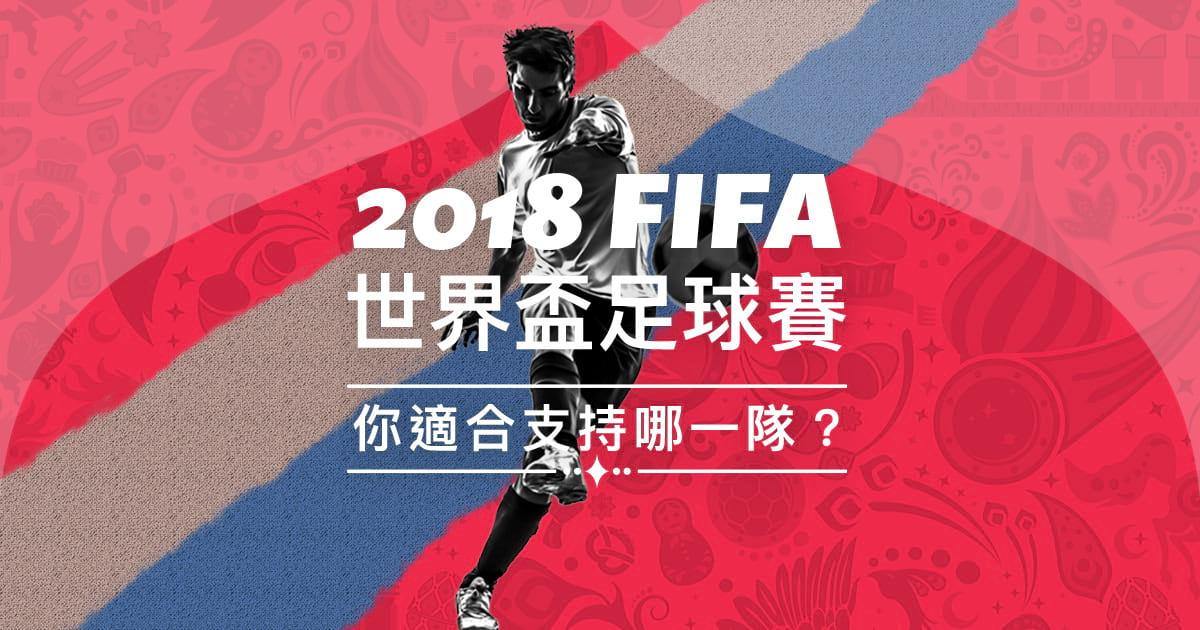
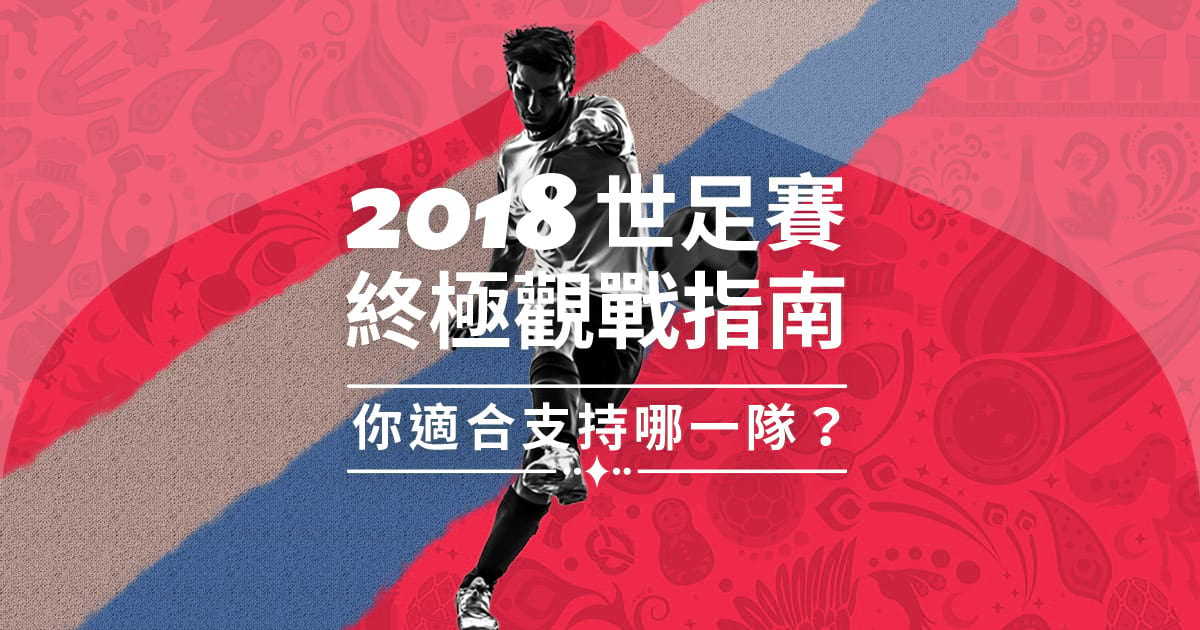
fifa2018 update main title

Changed region(s): [[0.2775, 0.2714, 0.7092, 0.573], [0.2775, 0.6333, 0.7092, 0.7238]]

diff --git a/fifa2018/quiz.html b/fifa2018/quiz.html
@@ -5,7 +5,7 @@
     <meta charset="UTF-8">
     <meta name="viewport" content="width=device-width, initial-scale=1.0">
     <meta http-equiv="X-UA-Compatible" content="ie=edge">
-    <title>2018 FIFA 世界盃足球賽，你適合支持哪一隊？</title>    
+    <title>2018 世足賽，終極觀戰指南</title>    
     <link rel="stylesheet" href="css/common.css" />
     <link rel="stylesheet" href="css/swiper.css" />
     <link rel="stylesheet" href="css/perfect-scrollbar.css" />
@@ -16,7 +16,7 @@
     <!-- Typekit -->
 
     <!-- OG -->
-    <meta name="description" content="2018 FIFA 世界盃足球賽，你適合支持哪一隊？">
+    <meta name="description" content="2018 世足賽，終極觀戰指南">
     <meta property="article:author" content="https://www.facebook.com/mirrormediamg/">
     <meta property="article:publisher" content="https://www.facebook.com/mirrormediamg/">
     <meta property="fb:app_id" content="175313259598308">
@@ -24,7 +24,7 @@
     <meta property="og:site_name" content="鏡週刊 Mirror Media" />
     <meta property="og:locale" content="zh_TW" />
     <meta property="og:type" content="article" />
-    <meta property="og:title" content="2018 FIFA 世界盃足球賽，你適合支持哪一隊？" />
+    <meta property="og:title" content="2018 世足賽，終極觀戰指南" />
     <meta property="og:description" content="四年一度的世界盃足球賽又要來了，這次有首次參加的冰島與巴拿馬，也有爆冷出局的義大利。不單只有義大利，荷蘭跟美國也讓不少人跌破眼鏡。當然，世界盃常客巴西、德國、法國一直以來也都擁有大量球迷。就在即將點燃戰火的同時，你還不知道該為那支球隊加油？那一定要來這裡讓我們為你配對，找到跟你最速配的球隊，讓你成為忠實球迷！" />
     <meta property="og:url" content="https://www.mirrormedia.mg/projects/fifa2018/"/>
     <meta property="og:image" content="https://www.mirrormedia.mg/projects/fifa2018/images/og/main.jpg">

diff --git a/fifa2018/quiz/ARG/index.html b/fifa2018/quiz/ARG/index.html
@@ -5,7 +5,7 @@
     <meta charset="UTF-8">
     <meta name="viewport" content="width=device-width, initial-scale=1.0">
     <meta http-equiv="X-UA-Compatible" content="ie=edge">
-    <title>2018 FIFA 世界盃足球賽，你適合支持哪一隊？</title>
+    <title>2018 世足賽，終極觀戰指南</title>
     <link rel="stylesheet" href="../../css/common.css" />
     <!-- Typekit -->
     <script src="https://use.typekit.net/fuf0mys.js"></script>
@@ -13,7 +13,7 @@
     <!-- Typekit -->
 
     <!-- OG -->
-    <meta name="description" content="2018 FIFA 世界盃足球賽，你適合支持哪一隊？">
+    <meta name="description" content="2018 世足賽，終極觀戰指南">
     <meta property="article:author" content="https://www.facebook.com/mirrormediamg/">
     <meta property="article:publisher" content="https://www.facebook.com/mirrormediamg/">
     <meta property="fb:app_id" content="175313259598308">
@@ -40,8 +40,8 @@
 
                 <section>
                     <div class="main-title">
-                        <h1 class="eng">2018 FIFA</h1>
-                        <h1 class="cht">世界盃足球賽</h1>                
+                        <h1 class="eng">2018 <span class="cht">世足賽</span></h1>
+                        <h1 class="cht">終極觀戰指南</h1>                
                         <h2 class="deco">
                             <div class="deco--text">你適合支持哪一隊？</div>
                             <div class="deco--line">

diff --git a/fifa2018/quiz/AUS/index.html b/fifa2018/quiz/AUS/index.html
@@ -5,7 +5,7 @@
     <meta charset="UTF-8">
     <meta name="viewport" content="width=device-width, initial-scale=1.0">
     <meta http-equiv="X-UA-Compatible" content="ie=edge">
-    <title>2018 FIFA 世界盃足球賽，你適合支持哪一隊？</title>
+    <title>2018 世足賽，終極觀戰指南</title>
     <link rel="stylesheet" href="../../css/common.css" />
     <!-- Typekit -->
     <script src="https://use.typekit.net/fuf0mys.js"></script>
@@ -13,7 +13,7 @@
     <!-- Typekit -->
 
     <!-- OG -->
-    <meta name="description" content="2018 FIFA 世界盃足球賽，你適合支持哪一隊？">
+    <meta name="description" content="2018 世足賽，終極觀戰指南">
     <meta property="article:author" content="https://www.facebook.com/mirrormediamg/">
     <meta property="article:publisher" content="https://www.facebook.com/mirrormediamg/">
     <meta property="fb:app_id" content="175313259598308">
@@ -40,8 +40,8 @@
 
                 <section>
                     <div class="main-title">
-                        <h1 class="eng">2018 FIFA</h1>
-                        <h1 class="cht">世界盃足球賽</h1>                
+                        <h1 class="eng">2018 <span class="cht">世足賽</span></h1>
+                        <h1 class="cht">終極觀戰指南</h1>                
                         <h2 class="deco">
                             <div class="deco--text">你適合支持哪一隊？</div>
                             <div class="deco--line">

diff --git a/fifa2018/quiz/BEL/index.html b/fifa2018/quiz/BEL/index.html
@@ -5,7 +5,7 @@
     <meta charset="UTF-8">
     <meta name="viewport" content="width=device-width, initial-scale=1.0">
     <meta http-equiv="X-UA-Compatible" content="ie=edge">
-    <title>2018 FIFA 世界盃足球賽，你適合支持哪一隊？</title>
+    <title>2018 世足賽，終極觀戰指南</title>
     <link rel="stylesheet" href="../../css/common.css" />
     <!-- Typekit -->
     <script src="https://use.typekit.net/fuf0mys.js"></script>
@@ -13,7 +13,7 @@
     <!-- Typekit -->
 
     <!-- OG -->
-    <meta name="description" content="2018 FIFA 世界盃足球賽，你適合支持哪一隊？">
+    <meta name="description" content="2018 世足賽，終極觀戰指南">
     <meta property="article:author" content="https://www.facebook.com/mirrormediamg/">
     <meta property="article:publisher" content="https://www.facebook.com/mirrormediamg/">
     <meta property="fb:app_id" content="175313259598308">
@@ -40,8 +40,8 @@
 
                 <section>
                     <div class="main-title">
-                        <h1 class="eng">2018 FIFA</h1>
-                        <h1 class="cht">世界盃足球賽</h1>                
+                        <h1 class="eng">2018 <span class="cht">世足賽</span></h1>
+                        <h1 class="cht">終極觀戰指南</h1>                
                         <h2 class="deco">
                             <div class="deco--text">你適合支持哪一隊？</div>
                             <div class="deco--line">

diff --git a/fifa2018/quiz/BRA/index.html b/fifa2018/quiz/BRA/index.html
@@ -5,7 +5,7 @@
     <meta charset="UTF-8">
     <meta name="viewport" content="width=device-width, initial-scale=1.0">
     <meta http-equiv="X-UA-Compatible" content="ie=edge">
-    <title>2018 FIFA 世界盃足球賽，你適合支持哪一隊？</title>
+    <title>2018 世足賽，終極觀戰指南</title>
     <link rel="stylesheet" href="../../css/common.css" />
     <!-- Typekit -->
     <script src="https://use.typekit.net/fuf0mys.js"></script>
@@ -13,7 +13,7 @@
     <!-- Typekit -->
 
     <!-- OG -->
-    <meta name="description" content="2018 FIFA 世界盃足球賽，你適合支持哪一隊？">
+    <meta name="description" content="2018 世足賽，終極觀戰指南">
     <meta property="article:author" content="https://www.facebook.com/mirrormediamg/">
     <meta property="article:publisher" content="https://www.facebook.com/mirrormediamg/">
     <meta property="fb:app_id" content="175313259598308">
@@ -40,8 +40,8 @@
 
                 <section>
                     <div class="main-title">
-                        <h1 class="eng">2018 FIFA</h1>
-                        <h1 class="cht">世界盃足球賽</h1>                
+                        <h1 class="eng">2018 <span class="cht">世足賽</span></h1>
+                        <h1 class="cht">終極觀戰指南</h1>                
                         <h2 class="deco">
                             <div class="deco--text">你適合支持哪一隊？</div>
                             <div class="deco--line">

diff --git a/fifa2018/quiz/COL/index.html b/fifa2018/quiz/COL/index.html
@@ -5,7 +5,7 @@
     <meta charset="UTF-8">
     <meta name="viewport" content="width=device-width, initial-scale=1.0">
     <meta http-equiv="X-UA-Compatible" content="ie=edge">
-    <title>2018 FIFA 世界盃足球賽，你適合支持哪一隊？</title>
+    <title>2018 世足賽，終極觀戰指南</title>
     <link rel="stylesheet" href="../../css/common.css" />
     <!-- Typekit -->
     <script src="https://use.typekit.net/fuf0mys.js"></script>
@@ -13,7 +13,7 @@
     <!-- Typekit -->
 
     <!-- OG -->
-    <meta name="description" content="2018 FIFA 世界盃足球賽，你適合支持哪一隊？">
+    <meta name="description" content="2018 世足賽，終極觀戰指南">
     <meta property="article:author" content="https://www.facebook.com/mirrormediamg/">
     <meta property="article:publisher" content="https://www.facebook.com/mirrormediamg/">
     <meta property="fb:app_id" content="175313259598308">
@@ -40,8 +40,8 @@
 
                 <section>
                     <div class="main-title">
-                        <h1 class="eng">2018 FIFA</h1>
-                        <h1 class="cht">世界盃足球賽</h1>                
+                        <h1 class="eng">2018 <span class="cht">世足賽</span></h1>
+                        <h1 class="cht">終極觀戰指南</h1>                
                         <h2 class="deco">
                             <div class="deco--text">你適合支持哪一隊？</div>
                             <div class="deco--line">

diff --git a/fifa2018/quiz/CRC/index.html b/fifa2018/quiz/CRC/index.html
@@ -5,7 +5,7 @@
     <meta charset="UTF-8">
     <meta name="viewport" content="width=device-width, initial-scale=1.0">
     <meta http-equiv="X-UA-Compatible" content="ie=edge">
-    <title>2018 FIFA 世界盃足球賽，你適合支持哪一隊？</title>
+    <title>2018 世足賽，終極觀戰指南</title>
     <link rel="stylesheet" href="../../css/common.css" />
     <!-- Typekit -->
     <script src="https://use.typekit.net/fuf0mys.js"></script>
@@ -13,7 +13,7 @@
     <!-- Typekit -->
 
     <!-- OG -->
-    <meta name="description" content="2018 FIFA 世界盃足球賽，你適合支持哪一隊？">
+    <meta name="description" content="2018 世足賽，終極觀戰指南">
     <meta property="article:author" content="https://www.facebook.com/mirrormediamg/">
     <meta property="article:publisher" content="https://www.facebook.com/mirrormediamg/">
     <meta property="fb:app_id" content="175313259598308">
@@ -40,8 +40,8 @@
 
                 <section>
                     <div class="main-title">
-                        <h1 class="eng">2018 FIFA</h1>
-                        <h1 class="cht">世界盃足球賽</h1>                
+                        <h1 class="eng">2018 <span class="cht">世足賽</span></h1>
+                        <h1 class="cht">終極觀戰指南</h1>                
                         <h2 class="deco">
                             <div class="deco--text">你適合支持哪一隊？</div>
                             <div class="deco--line">

diff --git a/fifa2018/quiz/CRO/index.html b/fifa2018/quiz/CRO/index.html
@@ -5,7 +5,7 @@
     <meta charset="UTF-8">
     <meta name="viewport" content="width=device-width, initial-scale=1.0">
     <meta http-equiv="X-UA-Compatible" content="ie=edge">
-    <title>2018 FIFA 世界盃足球賽，你適合支持哪一隊？</title>
+    <title>2018 世足賽，終極觀戰指南</title>
     <link rel="stylesheet" href="../../css/common.css" />
     <!-- Typekit -->
     <script src="https://use.typekit.net/fuf0mys.js"></script>
@@ -13,7 +13,7 @@
     <!-- Typekit -->
 
     <!-- OG -->
-    <meta name="description" content="2018 FIFA 世界盃足球賽，你適合支持哪一隊？">
+    <meta name="description" content="2018 世足賽，終極觀戰指南">
     <meta property="article:author" content="https://www.facebook.com/mirrormediamg/">
     <meta property="article:publisher" content="https://www.facebook.com/mirrormediamg/">
     <meta property="fb:app_id" content="175313259598308">
@@ -40,8 +40,8 @@
 
                 <section>
                     <div class="main-title">
-                        <h1 class="eng">2018 FIFA</h1>
-                        <h1 class="cht">世界盃足球賽</h1>                
+                        <h1 class="eng">2018 <span class="cht">世足賽</span></h1>
+                        <h1 class="cht">終極觀戰指南</h1>                
                         <h2 class="deco">
                             <div class="deco--text">你適合支持哪一隊？</div>
                             <div class="deco--line">

diff --git a/fifa2018/quiz/DEN/index.html b/fifa2018/quiz/DEN/index.html
@@ -5,7 +5,7 @@
     <meta charset="UTF-8">
     <meta name="viewport" content="width=device-width, initial-scale=1.0">
     <meta http-equiv="X-UA-Compatible" content="ie=edge">
-    <title>2018 FIFA 世界盃足球賽，你適合支持哪一隊？</title>
+    <title>2018 世足賽，終極觀戰指南</title>
     <link rel="stylesheet" href="../../css/common.css" />
     <!-- Typekit -->
     <script src="https://use.typekit.net/fuf0mys.js"></script>
@@ -13,7 +13,7 @@
     <!-- Typekit -->
 
     <!-- OG -->
-    <meta name="description" content="2018 FIFA 世界盃足球賽，你適合支持哪一隊？">
+    <meta name="description" content="2018 世足賽，終極觀戰指南">
     <meta property="article:author" content="https://www.facebook.com/mirrormediamg/">
     <meta property="article:publisher" content="https://www.facebook.com/mirrormediamg/">
     <meta property="fb:app_id" content="175313259598308">
@@ -40,8 +40,8 @@
 
                 <section>
                     <div class="main-title">
-                        <h1 class="eng">2018 FIFA</h1>
-                        <h1 class="cht">世界盃足球賽</h1>                
+                        <h1 class="eng">2018 <span class="cht">世足賽</span></h1>
+                        <h1 class="cht">終極觀戰指南</h1>                
                         <h2 class="deco">
                             <div class="deco--text">你適合支持哪一隊？</div>
                             <div class="deco--line">

diff --git a/fifa2018/quiz/EGY/index.html b/fifa2018/quiz/EGY/index.html
@@ -5,7 +5,7 @@
     <meta charset="UTF-8">
     <meta name="viewport" content="width=device-width, initial-scale=1.0">
     <meta http-equiv="X-UA-Compatible" content="ie=edge">
-    <title>2018 FIFA 世界盃足球賽，你適合支持哪一隊？</title>
+    <title>2018 世足賽，終極觀戰指南</title>
     <link rel="stylesheet" href="../../css/common.css" />
     <!-- Typekit -->
     <script src="https://use.typekit.net/fuf0mys.js"></script>
@@ -13,7 +13,7 @@
     <!-- Typekit -->
 
     <!-- OG -->
-    <meta name="description" content="2018 FIFA 世界盃足球賽，你適合支持哪一隊？">
+    <meta name="description" content="2018 世足賽，終極觀戰指南">
     <meta property="article:author" content="https://www.facebook.com/mirrormediamg/">
     <meta property="article:publisher" content="https://www.facebook.com/mirrormediamg/">
     <meta property="fb:app_id" content="175313259598308">
@@ -40,8 +40,8 @@
 
                 <section>
                     <div class="main-title">
-                        <h1 class="eng">2018 FIFA</h1>
-                        <h1 class="cht">世界盃足球賽</h1>                
+                        <h1 class="eng">2018 <span class="cht">世足賽</span></h1>
+                        <h1 class="cht">終極觀戰指南</h1>                
                         <h2 class="deco">
                             <div class="deco--text">你適合支持哪一隊？</div>
                             <div class="deco--line">

diff --git a/fifa2018/quiz/ENG/index.html b/fifa2018/quiz/ENG/index.html
@@ -5,7 +5,7 @@
     <meta charset="UTF-8">
     <meta name="viewport" content="width=device-width, initial-scale=1.0">
     <meta http-equiv="X-UA-Compatible" content="ie=edge">
-    <title>2018 FIFA 世界盃足球賽，你適合支持哪一隊？</title>
+    <title>2018 世足賽，終極觀戰指南</title>
     <link rel="stylesheet" href="../../css/common.css" />
     <!-- Typekit -->
     <script src="https://use.typekit.net/fuf0mys.js"></script>
@@ -13,7 +13,7 @@
     <!-- Typekit -->
 
     <!-- OG -->
-    <meta name="description" content="2018 FIFA 世界盃足球賽，你適合支持哪一隊？">
+    <meta name="description" content="2018 世足賽，終極觀戰指南">
     <meta property="article:author" content="https://www.facebook.com/mirrormediamg/">
     <meta property="article:publisher" content="https://www.facebook.com/mirrormediamg/">
     <meta property="fb:app_id" content="175313259598308">
@@ -40,8 +40,8 @@
 
                 <section>
                     <div class="main-title">
-                        <h1 class="eng">2018 FIFA</h1>
-                        <h1 class="cht">世界盃足球賽</h1>                
+                        <h1 class="eng">2018 <span class="cht">世足賽</span></h1>
+                        <h1 class="cht">終極觀戰指南</h1>                
                         <h2 class="deco">
                             <div class="deco--text">你適合支持哪一隊？</div>
                             <div class="deco--line">

diff --git a/fifa2018/quiz/ESP/index.html b/fifa2018/quiz/ESP/index.html
@@ -5,7 +5,7 @@
     <meta charset="UTF-8">
     <meta name="viewport" content="width=device-width, initial-scale=1.0">
     <meta http-equiv="X-UA-Compatible" content="ie=edge">
-    <title>2018 FIFA 世界盃足球賽，你適合支持哪一隊？</title>
+    <title>2018 世足賽，終極觀戰指南</title>
     <link rel="stylesheet" href="../../css/common.css" />
     <!-- Typekit -->
     <script src="https://use.typekit.net/fuf0mys.js"></script>
@@ -13,7 +13,7 @@
     <!-- Typekit -->
 
     <!-- OG -->
-    <meta name="description" content="2018 FIFA 世界盃足球賽，你適合支持哪一隊？">
+    <meta name="description" content="2018 世足賽，終極觀戰指南">
     <meta property="article:author" content="https://www.facebook.com/mirrormediamg/">
     <meta property="article:publisher" content="https://www.facebook.com/mirrormediamg/">
     <meta property="fb:app_id" content="175313259598308">
@@ -40,8 +40,8 @@
 
                 <section>
                     <div class="main-title">
-                        <h1 class="eng">2018 FIFA</h1>
-                        <h1 class="cht">世界盃足球賽</h1>                
+                        <h1 class="eng">2018 <span class="cht">世足賽</span></h1>
+                        <h1 class="cht">終極觀戰指南</h1>                
                         <h2 class="deco">
                             <div class="deco--text">你適合支持哪一隊？</div>
                             <div class="deco--line">
